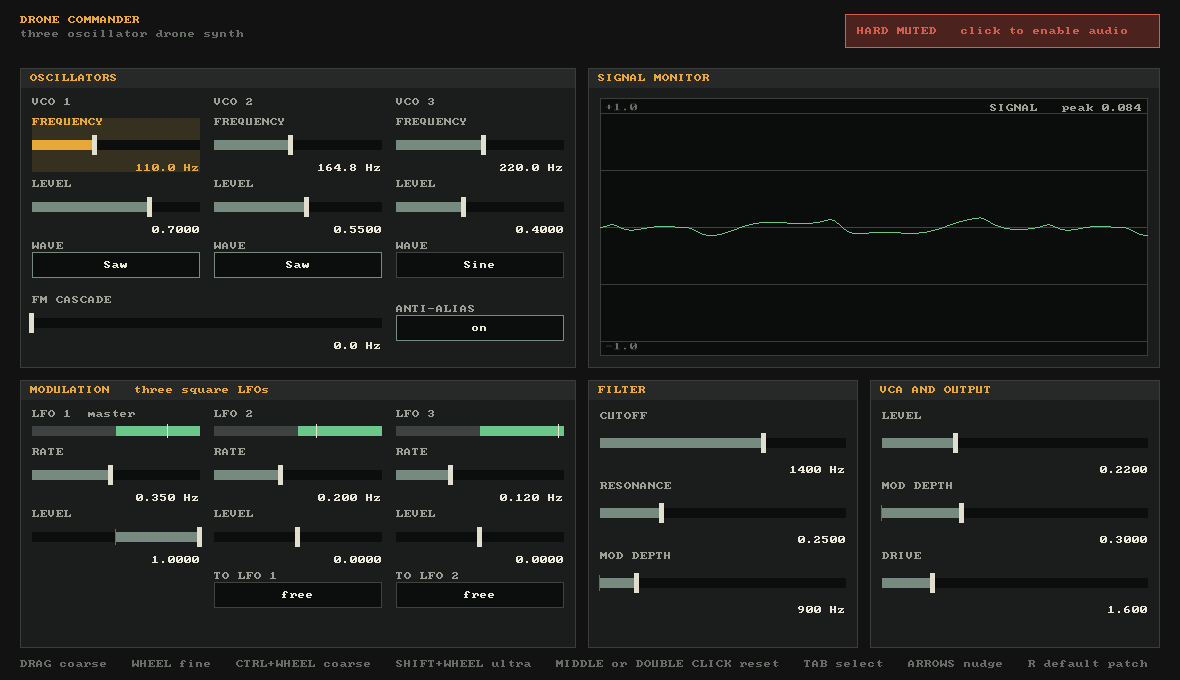
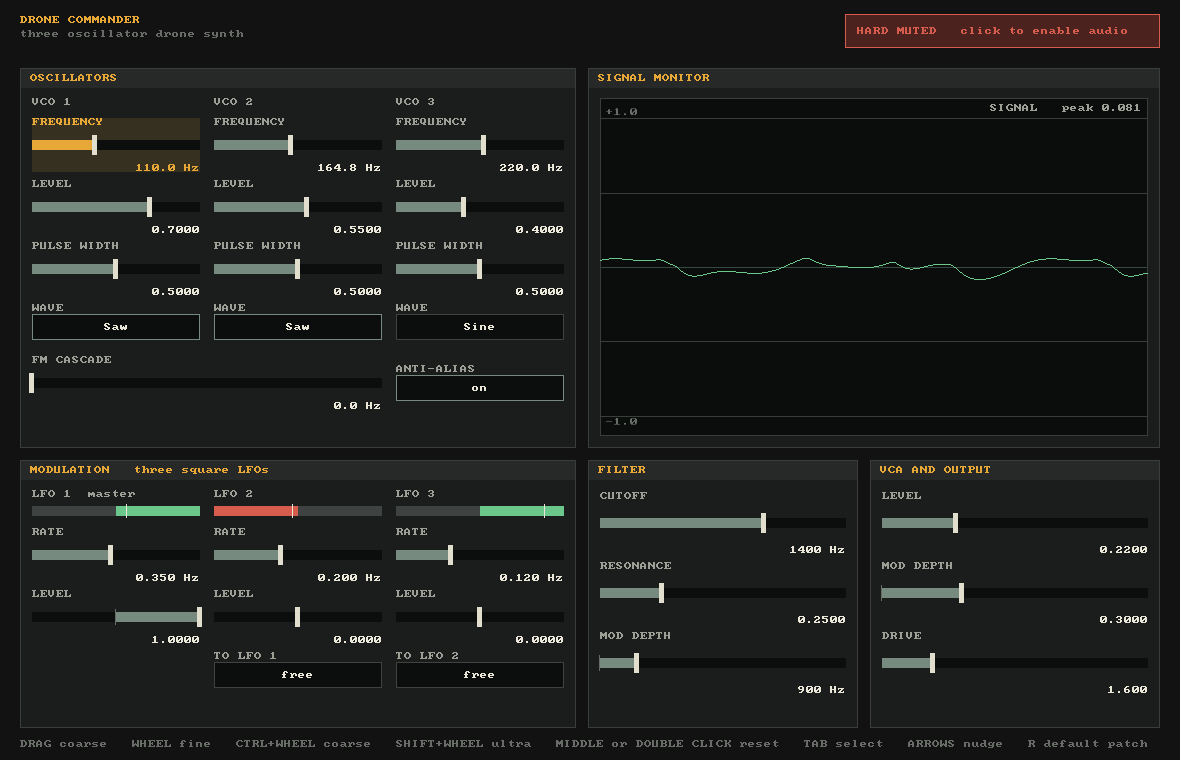
Pulse width on the oscillators, and the old experiments written down
Two things from the user's recollection of the SuperCollider lab that was lost.

Pulse width, because that one was a real gap. Each oscillator now has a duty
cycle from 0.02 to 0.98 with the neutral at 0.5, and the PolyBLEP falling edge
moves with the duty instead of sitting fixed at half a cycle. The DC offset it
introduces, 2 x duty - 1, is left in on purpose: an analog VCO has it too, and
it biases the soft-saturation stage asymmetrically, which is a large part of
what pulse width sounds like. dsp_tests measures the duty of a naive square
directly at 0.25, 0.5 and 0.75, checks that an oscillator built without naming
the field is still a square rather than silence, and holds the bounds at the
extremes through the anti-aliased path.

No phase control. A free-running drone oscillator's absolute phase is
inaudible; phase only becomes a control when something retriggers it, which
belongs to the PING app below rather than to this one.

The panel grew a row to fit it: three oscillator columns of frequency, level,
pulse width and wave, with the FM and anti-alias row below them.

The rest of the ideas go into ROADMAP section 7 as direction, not a queue,
because they describe the kind of sound and experimentation the lab is for
better than any spec does:

- SHELVES: a low-pass, a bank of band-passes at harmonically related
  frequencies, a high-pass, with bandwidth as the one gesture. Named after
  window louvres, where turning the plates lets in more or less light.
[…]

diff --git a/apps/drone-commander/src/panel.c b/apps/drone-commander/src/panel.c
@@ -12,10 +12,10 @@
  */
 #define MARGIN     20.0f
 #define ROW1_Y     68.0f
-#define ROW1_H     300.0f
-#define ROW2_Y     380.0f
+#define ROW1_H     380.0f
+#define ROW2_Y     460.0f
 #define ROW2_H     268.0f
-#define FOOTER_Y   660.0f
+#define FOOTER_Y   740.0f
 
 #define COL_W      168.0f      /* a column inside the three-column panels */
 #define CELL_H     54.0f       /* a fader cell */
@@ -23,9 +23,9 @@
 #define TALL_H     62.0f       /* a fader cell in the single-column panels */
 
 enum {
-    P_O1_FREQ, P_O1_LEVEL, P_O1_WAVE,
-    P_O2_FREQ, P_O2_LEVEL, P_O2_WAVE,
-    P_O3_FREQ, P_O3_LEVEL, P_O3_WAVE,
+    P_O1_FREQ, P_O1_LEVEL, P_O1_PULSE, P_O1_WAVE,
+    P_O2_FREQ, P_O2_LEVEL, P_O2_PULSE, P_O2_WAVE,
+    P_O3_FREQ, P_O3_LEVEL, P_O3_PULSE, P_O3_WAVE,
     P_FM_DEPTH, P_FM_ALIAS,
     P_L1_RATE, P_L1_LEVEL,
     P_L2_RATE, P_L2_LEVEL, P_L2_SYNC,
@@ -57,6 +57,11 @@ static Param PARAMS[P_COUNT] = {
       .taper=PARAM_EXP, .min=20, .max=2000, .neutral=110.0,   .coarse=10, .fine=1, .ultra=0.1 },
     { .group="osc1", .key="level", .label="LEVEL",     .kind=PARAM_FADER,
       .taper=PARAM_LINEAR, .min=0, .max=1, .neutral=0.70 },
+    /* Duty cycle of the square. Inert on the other waveforms, which is why it
+     * sits below LEVEL rather than next to WAVE. */
+    { .group="osc1", .key="pulse", .label="PULSE WIDTH", .kind=PARAM_FADER,
+      .taper=PARAM_LINEAR, .min=0.02, .max=0.98, .neutral=0.5,
+      .coarse=0.01, .fine=0.001, .ultra=0.0001 },
     { .group="osc1", .key="wave",  .label="WAVE",      .kind=PARAM_ENUM,
       .min=0, .max=WAVE_COUNT-1, .neutral=WAVE_SAW, .names=WAVE_NAMES, .nnames=WAVE_COUNT },
 
@@ -64,6 +69,9 @@ static Param PARAMS[P_COUNT] = {
       .taper=PARAM_EXP, .min=20, .max=2000, .neutral=164.81, .coarse=10, .fine=1, .ultra=0.1 },
     { .group="osc2", .key="level", .label="LEVEL",     .kind=PARAM_FADER,
       .taper=PARAM_LINEAR, .min=0, .max=1, .neutral=0.55 },
+    { .group="osc2", .key="pulse", .label="PULSE WIDTH", .kind=PARAM_FADER,
+      .taper=PARAM_LINEAR, .min=0.02, .max=0.98, .neutral=0.5,
+      .coarse=0.01, .fine=0.001, .ultra=0.0001 },
     { .group="osc2", .key="wave",  .label="WAVE",      .kind=PARAM_ENUM,
       .min=0, .max=WAVE_COUNT-1, .neutral=WAVE_SAW, .names=WAVE_NAMES, .nnames=WAVE_COUNT },
 
@@ -71,6 +79,9 @@ static Param PARAMS[P_COUNT] = {
       .taper=PARAM_EXP, .min=20, .max=2000, .neutral=220.0,  .coarse=10, .fine=1, .ultra=0.1 },
     { .group="osc3", .key="level", .label="LEVEL",     .kind=PARAM_FADER,
       .taper=PARAM_LINEAR, .min=0, .max=1, .neutral=0.40 },
+    { .group="osc3", .key="pulse", .label="PULSE WIDTH", .kind=PARAM_FADER,
+      .taper=PARAM_LINEAR, .min=0.02, .max=0.98, .neutral=0.5,
+      .coarse=0.01, .fine=0.001, .ultra=0.0001 },
     { .group="osc3", .key="wave",  .label="WAVE",      .kind=PARAM_ENUM,
       .min=0, .max=WAVE_COUNT-1, .neutral=WAVE_SINE, .names=WAVE_NAMES, .nnames=WAVE_COUNT },
 
@@ -139,6 +150,7 @@ static const float COL_X[3] = { 32.0f, 214.0f, 396.0f };
 
 static const int OSC_FREQ[3]  = { P_O1_FREQ, P_O2_FREQ, P_O3_FREQ };
 static const int OSC_LEVEL[3] = { P_O1_LEVEL, P_O2_LEVEL, P_O3_LEVEL };
+static const int OSC_PULSE[3] = { P_O1_PULSE, P_O2_PULSE, P_O3_PULSE };
 static const int OSC_WAVE[3]  = { P_O1_WAVE, P_O2_WAVE, P_O3_WAVE };
 static const int LFO_RATE[3]  = { P_L1_RATE, P_L2_RATE, P_L3_RATE };
 static const int LFO_LEVEL[3] = { P_L1_LEVEL, P_L2_LEVEL, P_L3_LEVEL };
@@ -176,12 +188,13 @@ static void layout(const UiText *t)
     const float mod_y = ROW2_Y + head + 10.0f;      /* 438 */
 
     for (int c = 0; c < 3; c++) {
-        place(OSC_FREQ[c],  (SDL_FRect){ COL_X[c], osc_y + 20.0f, COL_W, CELL_H }, t);
-        place(OSC_LEVEL[c], (SDL_FRect){ COL_X[c], osc_y + 82.0f, COL_W, CELL_H }, t);
-        place(OSC_WAVE[c],  (SDL_FRect){ COL_X[c], osc_y + 144.0f, COL_W, STEP_H }, t);
+        place(OSC_FREQ[c],  (SDL_FRect){ COL_X[c], osc_y + 20.0f,  COL_W, CELL_H }, t);
+        place(OSC_LEVEL[c], (SDL_FRect){ COL_X[c], osc_y + 82.0f,  COL_W, CELL_H }, t);
+        place(OSC_PULSE[c], (SDL_FRect){ COL_X[c], osc_y + 144.0f, COL_W, CELL_H }, t);
+        place(OSC_WAVE[c],  (SDL_FRect){ COL_X[c], osc_y + 206.0f, COL_W, STEP_H }, t);
     }
-    place(P_FM_DEPTH, (SDL_FRect){ COL_X[0], osc_y + 198.0f, 350.0f, CELL_H }, t);
-    place(P_FM_ALIAS, (SDL_FRect){ COL_X[2], osc_y + 207.0f, COL_W, STEP_H }, t);
+    place(P_FM_DEPTH, (SDL_FRect){ COL_X[0], osc_y + 258.0f, 350.0f, CELL_H }, t);
+    place(P_FM_ALIAS, (SDL_FRect){ COL_X[2], osc_y + 267.0f, COL_W, STEP_H }, t);
 
     for (int c = 0; c < 3; c++) {
         place(LFO_RATE[c],  (SDL_FRect){ COL_X[c], mod_y + 38.0f, COL_W, CELL_H }, t);
@@ -212,6 +225,7 @@ void panel_to_parameters(const PanelState *panel, SynthParameters *out)
         out->oscillators[c].frequency = (float)v[OSC_FREQ[c]];
         out->oscillators[c].amplitude = (float)v[OSC_LEVEL[c]];
         out->oscillators[c].waveform  = (Waveform)(int)floor(v[OSC_WAVE[c]] + 0.5);
+        out->oscillators[c].pulse_width = (float)v[OSC_PULSE[c]];
         out->lfos[c].frequency = (float)v[LFO_RATE[c]];
         out->lfos[c].amplitude = (float)v[LFO_LEVEL[c]];
         out->lfos[c].sync_to_previous =
@@ -234,6 +248,7 @@ void panel_from_parameters(PanelState *panel, const SynthParameters *in)
         paramset_set(s, OSC_FREQ[c], in->oscillators[c].frequency);
         paramset_set(s, OSC_LEVEL[c], in->oscillators[c].amplitude);
         paramset_set(s, OSC_WAVE[c], (double)in->oscillators[c].waveform);
+        paramset_set(s, OSC_PULSE[c], in->oscillators[c].pulse_width);
         paramset_set(s, LFO_RATE[c], in->lfos[c].frequency);
         paramset_set(s, LFO_LEVEL[c], in->lfos[c].amplitude);
         if (LFO_SYNC[c] >= 0) paramset_set(s, LFO_SYNC[c], in->lfos[c].sync_to_previous ? 1 : 0);

diff --git a/apps/drone-commander/src/dsp.c b/apps/drone-commander/src/dsp.c
@@ -31,7 +31,8 @@ static float poly_blep(float t, float dt)
     return 0.0f;
 }
 
-static float waveform_sample(Waveform waveform, float phase, float dt, int blep)
+static float waveform_sample(Waveform waveform, float phase, float dt, int blep,
+                             float pulse_width)
 {
     switch (waveform) {
     case WAVE_SAW: {
@@ -42,12 +43,19 @@ static float waveform_sample(Waveform waveform, float phase, float dt, int blep)
         return sample;
     }
     case WAVE_SQUARE: {
-        float sample = phase < 0.5f ? 1.0f : -1.0f;
+        /* Rising edge at phase 0, falling edge at the duty cycle. A duty of
+         * 0.5 is the plain square the earlier fixed version produced.
+         *
+         * Note the DC offset this introduces, 2 * duty - 1: an analog VCO does
+         * the same, and it biases the saturation stage asymmetrically, which is
+         * part of what pulse width sounds like. It is left in on purpose. */
+        float duty = (pulse_width > 0.0f && pulse_width < 1.0f) ? pulse_width : 0.5f;
+        float sample = phase < duty ? 1.0f : -1.0f;
         if (blep) {
-            float phase_half = phase + 0.5f;
-            phase_half -= floorf(phase_half);
+            float falling = phase - duty;
+            falling -= floorf(falling);
             sample += poly_blep(phase, dt);
-            sample -= poly_blep(phase_half, dt);
+            sample -= poly_blep(falling, dt);
         }
         return sample;
     }
@@ -63,9 +71,9 @@ SynthParameters synth_default_parameters(void)
 {
     SynthParameters parameters = {
         .oscillators = {
-            {110.0f, 0.70f, WAVE_SAW},
-            {164.81f, 0.55f, WAVE_SAW},
-            {220.0f, 0.40f, WAVE_SINE},
+            {110.0f, 0.70f, WAVE_SAW, 0.5f},
+            {164.81f, 0.55f, WAVE_SAW, 0.5f},
+            {220.0f, 0.40f, WAVE_SINE, 0.5f},
         },
         .cutoff = 1400.0f,
         .cutoff_mod_depth = 900.0f,
@@ -113,6 +121,11 @@ void synth_set_parameters(Synth *synth, const SynthParameters *parameters)
         synth->oscillators[oscillator_index].amplitude =
             clampf(parameters->oscillators[oscillator_index].amplitude, 0.0f, 1.0f);
         synth->oscillators[oscillator_index].waveform = parameters->oscillators[oscillator_index].waveform;
+        {
+            float duty = parameters->oscillators[oscillator_index].pulse_width;
+            synth->oscillators[oscillator_index].pulse_width =
+                duty > 0.0f ? clampf(duty, 0.02f, 0.98f) : 0.5f;
+        }
     }
 
     for (lfo_index = 0; lfo_index < SYNTH_LFO_COUNT; ++lfo_index) {
@@ -130,7 +143,9 @@ float oscillator_process_ex(Oscillator *oscillator, float sample_rate, float fm_
 {
     float effective_freq = clampf(oscillator->frequency + fm_offset, 0.0f, sample_rate * 0.45f);
     float dt = effective_freq / sample_rate;
-    float sample = oscillator->amplitude * waveform_sample(oscillator->waveform, oscillator->phase, dt, blep);
+    float sample = oscillator->amplitude *
+                   waveform_sample(oscillator->waveform, oscillator->phase, dt, blep,
+                                   oscillator->pulse_width);
     oscillator->phase += dt;
     oscillator->phase -= floorf(oscillator->phase);
     return sample;

diff --git a/apps/drone-commander/tests/test_dsp.c b/apps/drone-commander/tests/test_dsp.c
@@ -147,6 +147,46 @@ static void test_lfo_sync_to_previous(void)
                 "free-running LFO does not reset with the preceding LFO");
 }
 
+/* The fraction of a cycle a naive square spends high, which is what pulse
+ * width means. Anti-aliasing is off here so the edges land where they should
+ * rather than being rounded by the correction. */
+static float duty_of(float pulse_width)
+{
+    Oscillator oscillator = {.frequency = 100.0f, .amplitude = 1.0f,
+                             .waveform = WAVE_SQUARE, .pulse_width = pulse_width};
+    int high = 0;
+    for (int i = 0; i < TEST_FRAME_COUNT; ++i)
+        if (oscillator_process_ex(&oscillator, TEST_SAMPLE_RATE, 0.0f, 0) > 0.0f) ++high;
+    return (float)high / (float)TEST_FRAME_COUNT;
+}
+
+static void test_pulse_width(void)
+{
+    expect_true(fabsf(duty_of(0.5f) - 0.5f) < 0.01f, "a 0.5 duty square is high half the time");
+    expect_true(fabsf(duty_of(0.25f) - 0.25f) < 0.01f, "a 0.25 duty square is high a quarter of the time");
+    expect_true(fabsf(duty_of(0.75f) - 0.75f) < 0.01f, "a 0.75 duty square is high three quarters of the time");
+
+    /* An oscillator built without naming pulse_width must still be a square,
+     * not silence, so old code and test fixtures keep working. */
+    expect_true(fabsf(duty_of(0.0f) - 0.5f) < 0.01f, "an unset pulse width behaves as 0.5");
+
+    /* Pulse width must not break the anti-aliased path or the bounds. */
+    SynthParameters parameters = synth_default_parameters();
+    Synth synth;
+    parameters.oscillators[0].waveform = WAVE_SQUARE;
+    parameters.oscillators[0].pulse_width = 0.08f;
+    parameters.oscillators[1].waveform = WAVE_SQUARE;
+    parameters.oscillators[1].pulse_width = 0.92f;
+    parameters.vca_amplitude = 1.0f;
+    synth_init(&synth, TEST_SAMPLE_RATE, &parameters);
+    for (int i = 0; i < TEST_FRAME_COUNT; ++i) {
+        float sample = synth_process_sample(&synth);
+        expect_true(sample >= -1.0f && sample <= 1.0f && sample == sample,
+                    "extreme pulse widths stay bounded and finite");
+        if (failures) break;
+    }
+}
+
 int main(void)
 {
     test_phase_wraps();
@@ -156,6 +196,7 @@ int main(void)
     test_polyblep_and_fm_stability();
     test_parameter_smoothing();
     test_lfo_sync_to_previous();
+    test_pulse_width();
 
     if (failures == 0) {
         puts("All DSP tests passed.");

diff --git a/apps/drone-commander/src/dsp.h b/apps/drone-commander/src/dsp.h
@@ -19,6 +19,10 @@ typedef struct {
     float frequency;
     float amplitude;
     Waveform waveform;
+    /* Duty cycle of WAVE_SQUARE, 0 to 1. Ignored by the other waveforms.
+     * Zero or out of range is treated as 0.5, so an Oscillator built without
+     * naming this field is still a square rather than silence. */
+    float pulse_width;
 } Oscillator;
 
 typedef struct {
@@ -30,6 +34,7 @@ typedef struct {
     float frequency;
     float amplitude;
     Waveform waveform;
+    float pulse_width;
 } OscillatorParameters;
 
 typedef struct {

diff --git a/apps/drone-commander/src/panel.h b/apps/drone-commander/src/panel.h
@@ -9,7 +9,7 @@
 #include <stdbool.h>
 
 #define PANEL_WIDTH 1180
-#define PANEL_HEIGHT 680
+#define PANEL_HEIGHT 760
 
 /*
  * The panel is a ParamSet laid out on a grid. Every continuous control is a

diff --git a/ROADMAP.md b/ROADMAP.md
@@ -250,7 +250,48 @@ this lab was lost. None of them is scheduled.
 - **A filter app** in the spirit of the parts of a Sherman Filterbank that
   actually got used: gain into a high-pass into a low-pass. No amplitude
   envelope, no cutoff envelope.
+- **SHELVES.** A low-pass, then a bank of band-passes at harmonically related
+  frequencies, then a high-pass, with the band-passes' bandwidth as the main
+  control. Named after window louvres: turning the plates lets in more or less
+  light, and here more or less of the spectrum. A resonator bank whose one
+  gesture opens and closes the whole thing.
+- **PING.** Several low-frequency square waves into a resonant band-pass, which
+  pings. A technique the user also patches on their modular, and it needs the
+  squares' phase and pulse width, not just their rate. This is the app that
+  most wants generative presets, below.
+- **PROBE.** Shows the camera, takes an x and a y in, and outputs the
+  luminosity of that pixel. A sequencer whose pattern is a physical object:
+  draw on paper, point the camera at it, and read the drawing as a signal.
+  Wants vsynth's capture path and the fader's address model, and nothing else.
+- **MOSAIC.** Cut a familiar record into micro-fragments, cut a live input into
+  micro-fragments, and reconstruct the input out of the record's pieces.
+  Concatenative resynthesis. The one idea here that never got built before.
 - **A kick drum app.** Crude on purpose.
+
+### 7.1 Generative presets
+
+The most portable idea from the lost version, and it belongs in the shared
+layer rather than in one app. A preset was not a set of stored values but an
+**algorithm that produced values**, with different algorithms embodying
+different constraints. One kept the base frequencies harmonically related, so
+every roll of the dice was in tune with itself; another was free.
+
+That is a different thing from randomising a knob, and it generalises: a fader
+already carries range, taper, neutral and a stable address, which is most of
+what a constrained generator needs. vsynth's `x` and `X` randomize are the
+crude seed of it. Recording it as direction because `shared/store` (P5) should
+be able to hold a generator alongside stored values rather than being retrofitted
+for it later, and because it is the answer to "presets are boring".
+
+### 7.2 What this tells the software
+
+These are not a work queue; they describe the kind of sound and the kind of
+experimentation the lab is for. Read together they say: drones and resonance
+rather than beats and songs; slow signals that modulate other signals; physical
+and visual inputs treated as control voltage; constrained randomness preferred
+over recall; and every parameter reachable while the thing is running. Drone
+Commander and vsynth already represent that fairly well, which is why they are
+the two that exist.
 
 Why not SuperCollider, where much of this existed before: deployment is a
 single static executable here, the result is stable, and writing the DSP
@@ -292,6 +333,14 @@ A later pass made the hit-testing pixel-density independent.
   The panel is on a two-row grid with one accent colour; every continuous
   control is a fader with a unit, a neutral tick and an exponential taper where
   it is a frequency. `assets/screenshots/drone-commander.png` is the result.
+- Oscillators gained **pulse width**: duty 0.02 to 0.98, neutral 0.5, with the
+  PolyBLEP falling edge moved to the duty rather than fixed at half a cycle.
+  The DC offset it introduces (2 x duty - 1) is left in, because an analog VCO
+  has it too and it biases the saturation stage asymmetrically, which is part
+  of what pulse width sounds like. `dsp_tests` measures the duty directly.
+  No phase control: a free-running drone oscillator's absolute phase is
+  inaudible, and phase only becomes a control when something retriggers it,
+  which is PING's problem in section 7, not this app's.
 - The old panel's specific faults, for the record: the FM cascade slider
   crossed the oscillator section border, the anti-alias label overflowed it,
   five sections each had their own title colour, the VCA and output sections

diff --git a/apps/drone-commander/README.md b/apps/drone-commander/README.md
@@ -66,8 +66,18 @@ The rest:
 
 3 oscillators with selectable waveforms (Sine, Saw, Square, Triangle), each with:
 
-- Frequency
-- Amplitude
+- Frequency, on an exponential fader from 20 Hz to 2 kHz
+- Level
+- Pulse width, the duty cycle of the square from 0.02 to 0.98
+
+Pulse width moves the falling edge of the square; the rising edge stays at the
+start of the cycle. It does nothing to the other three waveforms. It also
+introduces a DC offset of `2 * duty - 1`, which is deliberate: an analog VCO
+does the same, and that offset biases the soft-saturation stage asymmetrically,
+which is a large part of what pulse width actually sounds like.
+
+There is no phase control. A free-running drone oscillator's absolute phase is
+inaudible; phase only becomes a control when something retriggers it.
 
 ### FM Cascade
 
